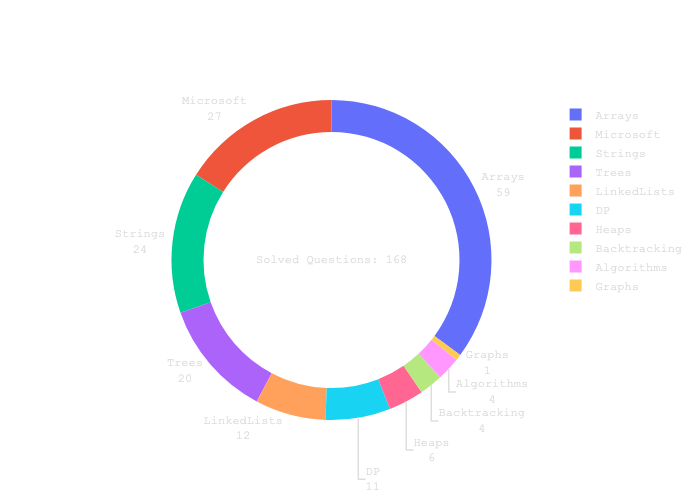
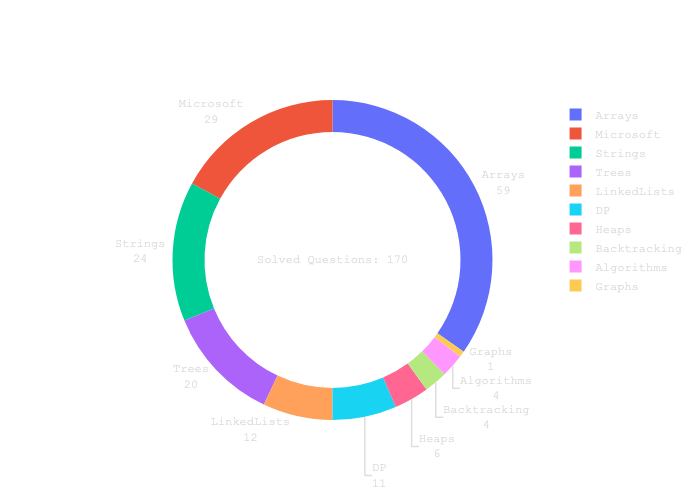
unique subsets

diff --git a/Microsoft/rottingOranges.py b/Microsoft/rottingOranges.py
@@ -1,0 +1,34 @@
+from collections import deque
+from typing import List
+
+
+def orangesRotting(grid: List[List[int]]) -> int:
+    numOranges, minutes, N, M = 0, 0, len(grid), len(grid[0])
+    frontier = deque([])
+    for x, row in enumerate(grid):
+        for y, orng in enumerate(row):
+            if orng == 1:
+                numOranges += 1
+            if orng == 2:
+                frontier.append((x, y))
+    dirs = [(-1, 0), (1, 0), (0, -1), (0, 1)]
+    while frontier:
+        for _ in range(len(frontier)):
+            cur = frontier.popleft()
+            for dir in dirs:
+                r = cur[0] + dir[0]
+                c = cur[1] + dir[1]
+                if 0 <= r < N and 0 <= c < M and grid[r][c] == 1:
+                    grid[r][c] = 2
+                    frontier.append((r, c))
+                    numOranges -= 1
+
+        minutes += 1
+
+    if minutes > 0:
+        minutes -= 1
+    return minutes if numOranges == 0 else -1
+
+
+print(orangesRotting([[2, 1, 1], [1, 1, 0], [0, 1, 1]]))
+print(orangesRotting([[2, 1, 1], [0, 1, 1], [1, 0, 1]]))

diff --git a/Microsoft/subsets.py b/Microsoft/subsets.py
@@ -1,0 +1,20 @@
+from typing import List
+
+
+def subsets(nums: List[int]) -> List[List[int]]:
+
+    res = [[]]
+
+    def backtrack(sub, arr: List[int]):
+        for i in range(len(arr)):
+            sub.append(arr[i])
+            res.append(sub[:])
+            backtrack(sub, arr[i + 1 :])
+            sub.pop()
+
+    backtrack([], nums)
+    return res
+
+
+print(subsets([1, 2, 3]))
+print(subsets([1]))
